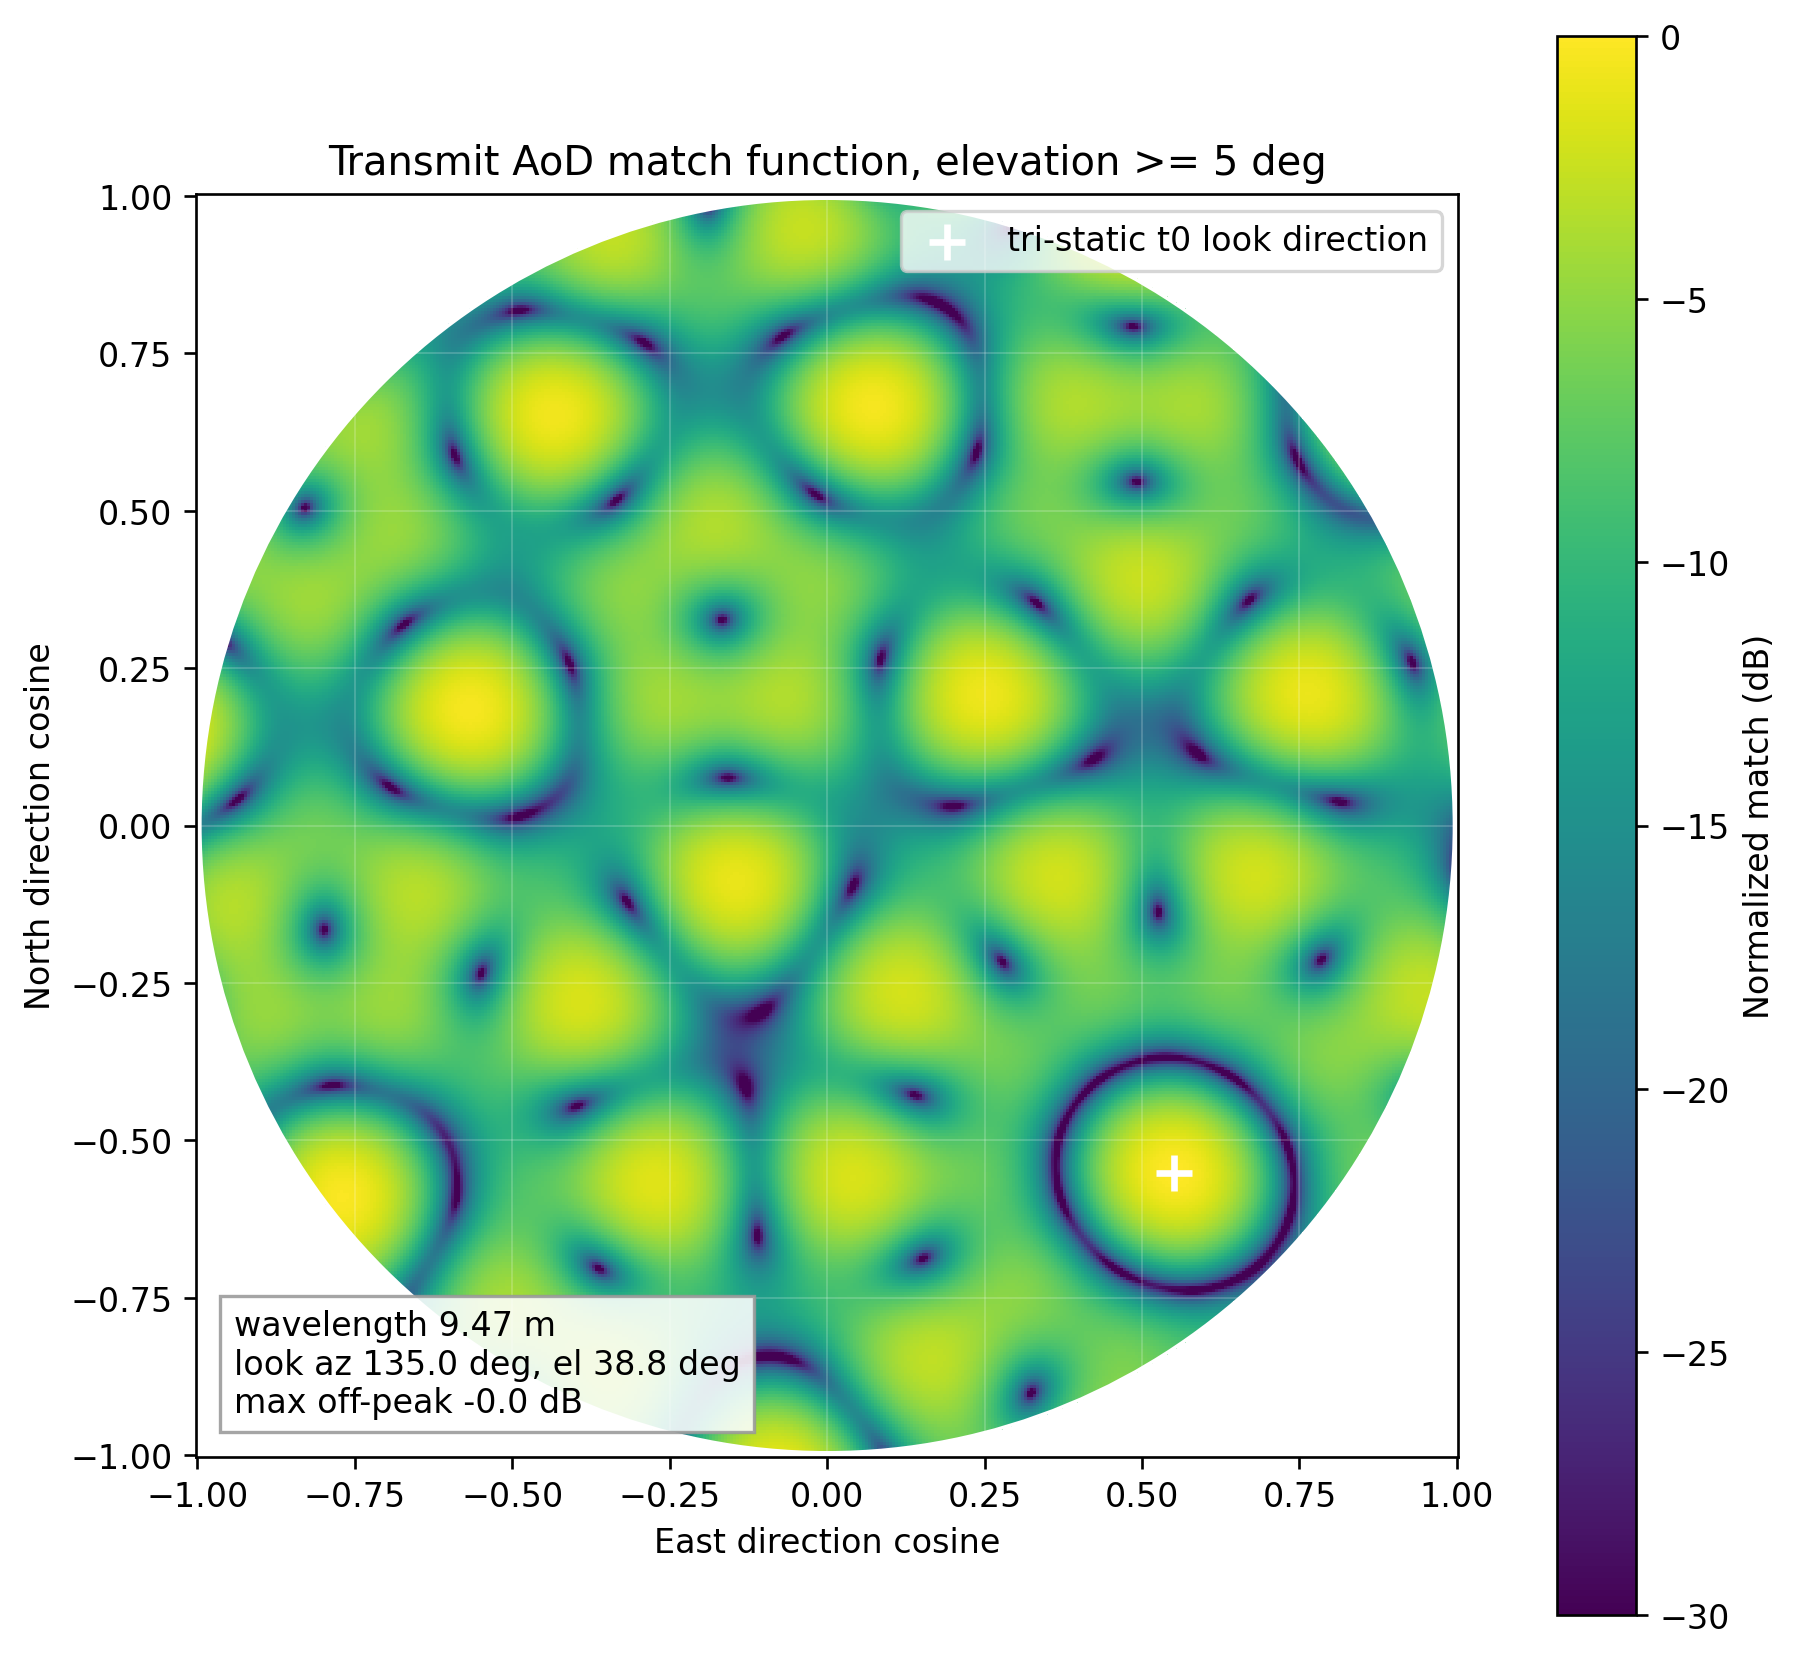
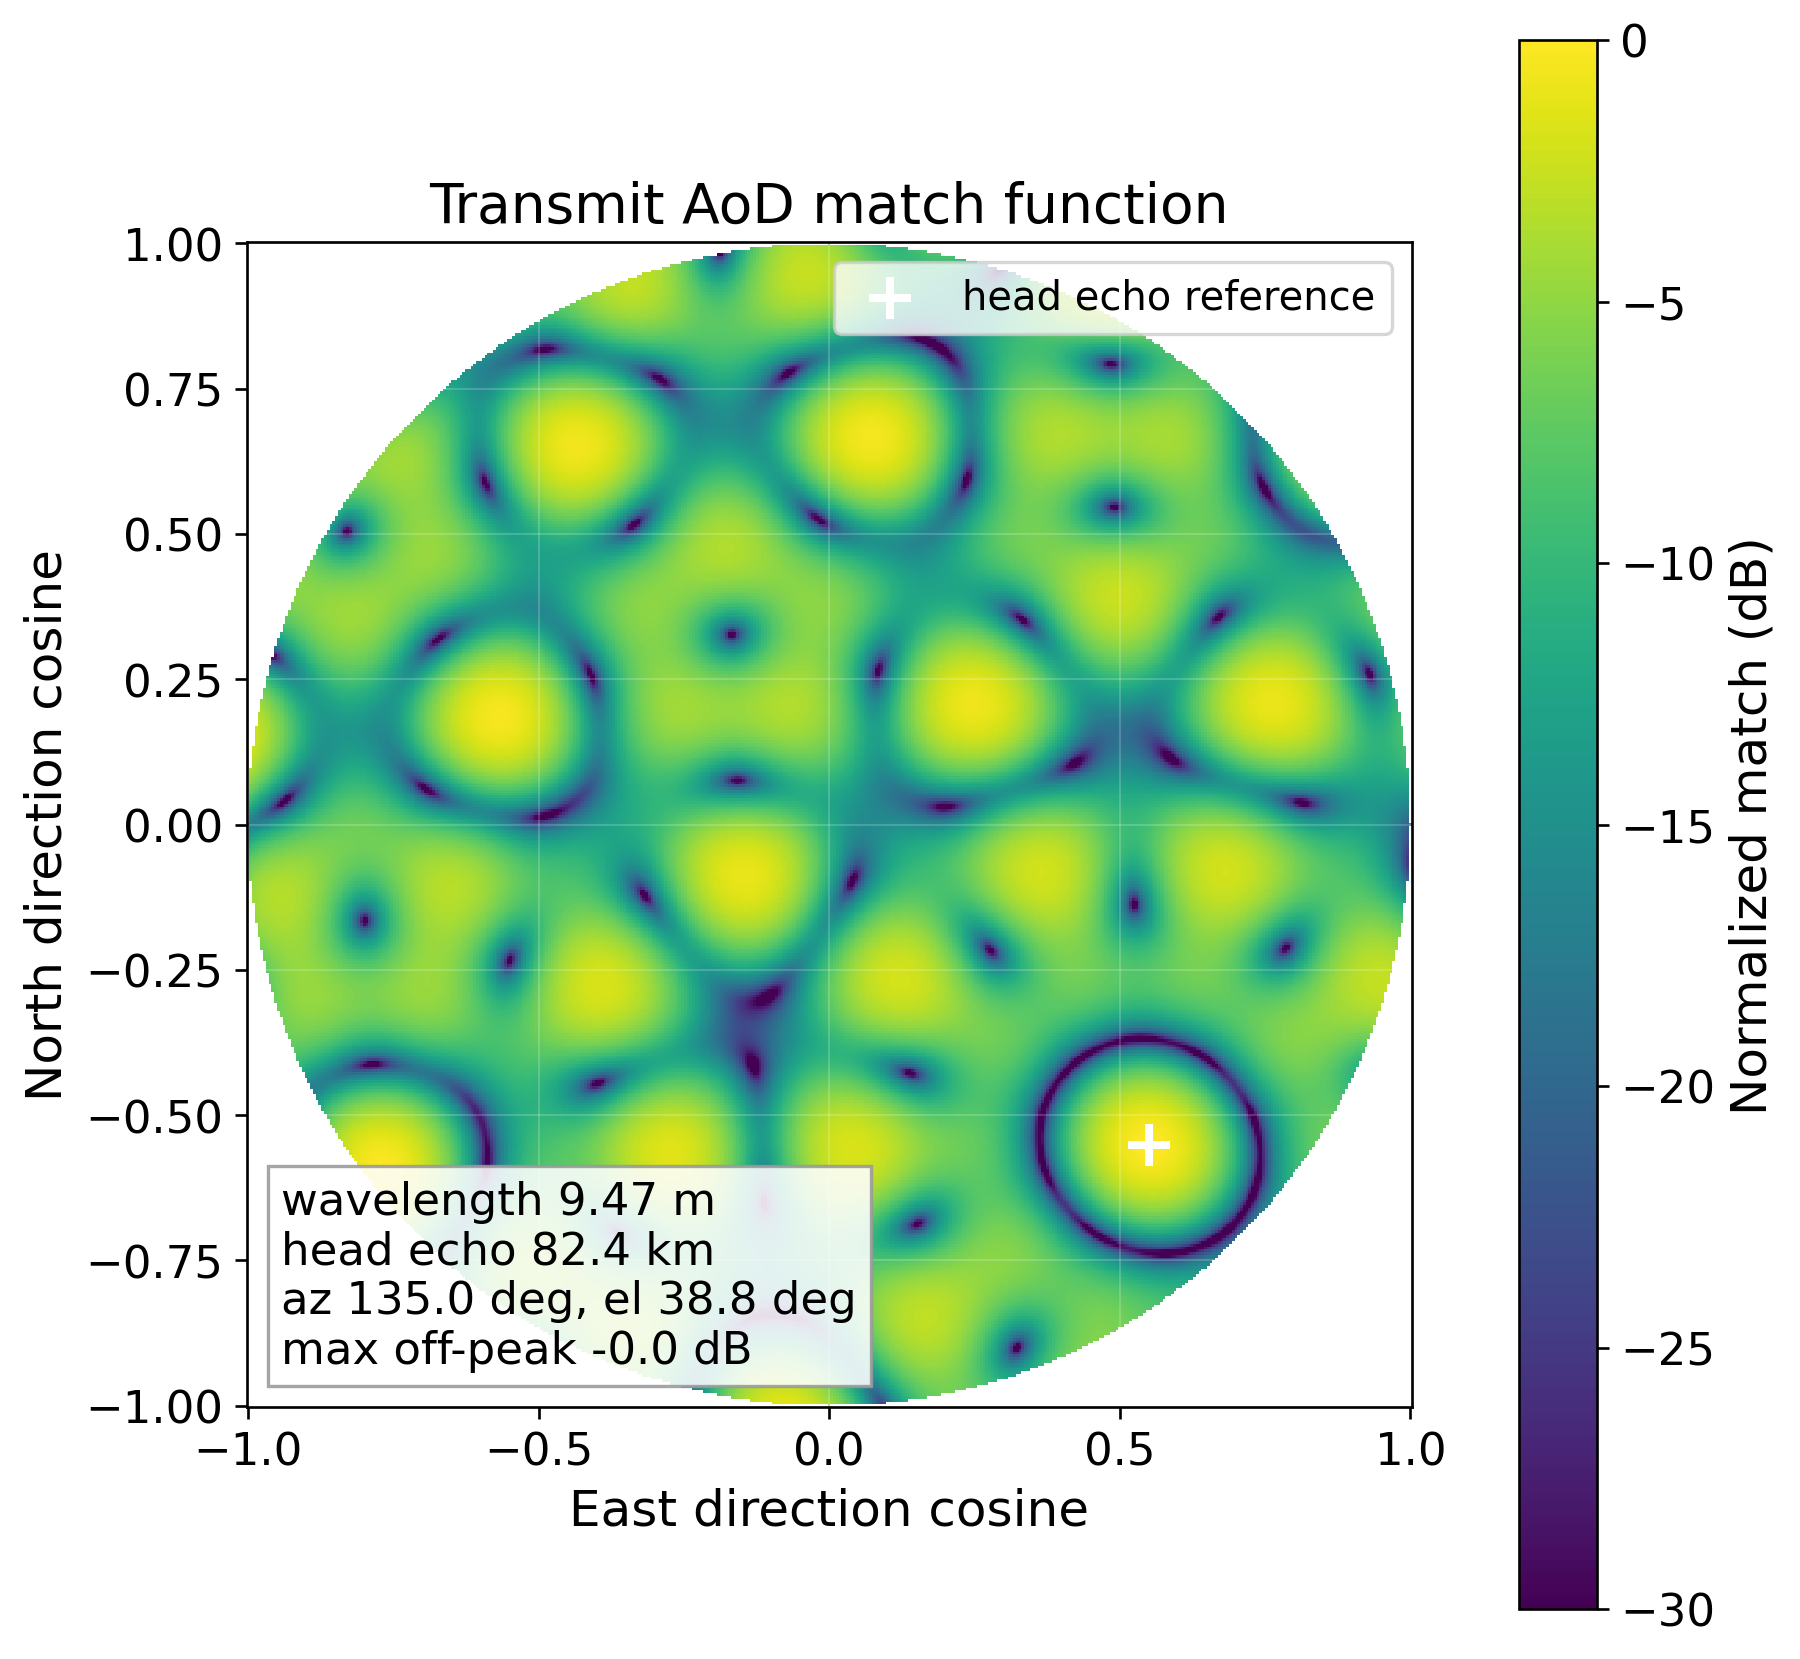
Increase AoD ambiguity figure font

diff --git a/reports/generate_station_config_assets.py b/reports/generate_station_config_assets.py
@@ -75,7 +75,7 @@ def write_tx_antenna_table(tx) -> Path:
     return out
 
 
-def aod_match_grid(tx, elevation_floor_deg: float = 5.0, grid_size: int = 421):
+def aod_match_grid(tx, grid_size: int = 421):
     ant = tx.antenna_pos_tx
     wavelength = C / tx.frequency_hz
     k = 2.0 * np.pi / wavelength
@@ -84,8 +84,7 @@ def aod_match_grid(tx, elevation_floor_deg: float = 5.0, grid_size: int = 421):
     u = np.linspace(-1.0, 1.0, grid_size)
     east, north = np.meshgrid(u, u)
     h2 = east * east + north * north
-    min_up = np.sin(np.deg2rad(elevation_floor_deg))
-    keep = h2 <= 1.0 - min_up * min_up
+    keep = h2 <= 1.0
     up = np.sqrt(np.maximum(0.0, 1.0 - h2))
 
     dirs = np.column_stack((east[keep], north[keep], up[keep]))
@@ -102,62 +101,70 @@ def aod_match_grid(tx, elevation_floor_deg: float = 5.0, grid_size: int = 421):
 
 def plot_tx_antennas(tx) -> Path:
     ant = tx.antenna_pos_tx
-    fig, axes = plt.subplots(1, 2, figsize=(13.2, 6.0), constrained_layout=True)
-    ax = axes[0]
-    ax.scatter(ant[:, 0], ant[:, 1], s=95, color="#1f77b4", edgecolor="white", linewidth=0.8, zorder=3)
-    for idx, (enu, seed) in enumerate(zip(ant, tx.seeds)):
-        ax.annotate(
-            f"TX{idx}\nseed {seed}",
-            (enu[0], enu[1]),
-            xytext=(7, 7),
-            textcoords="offset points",
-            fontsize=9,
+    font_scale = 1.5
+    font = {
+        "axes.titlesize": 11 * font_scale,
+        "axes.labelsize": 10 * font_scale,
+        "xtick.labelsize": 9 * font_scale,
+        "ytick.labelsize": 9 * font_scale,
+        "legend.fontsize": 8 * font_scale,
+    }
+    with plt.rc_context(font):
+        fig, axes = plt.subplots(1, 2, figsize=(13.2, 6.0), constrained_layout=True)
+        ax = axes[0]
+        ax.scatter(ant[:, 0], ant[:, 1], s=120, color="#1f77b4", edgecolor="white", linewidth=0.8, zorder=3)
+        for idx, (enu, seed) in enumerate(zip(ant, tx.seeds)):
+            ax.annotate(
+                f"TX{idx}\nseed {seed}",
+                (enu[0], enu[1]),
+                xytext=(7, 7),
+                textcoords="offset points",
+                fontsize=9 * font_scale,
+            )
+        ax.axhline(0, color="0.78", lw=0.8)
+        ax.axvline(0, color="0.78", lw=0.8)
+        ax.set_aspect("equal", adjustable="box")
+        pad = 8.0
+        ax.set_xlim(float(np.min(ant[:, 0]) - pad), float(np.max(ant[:, 0]) + pad))
+        ax.set_ylim(float(np.min(ant[:, 1]) - pad), float(np.max(ant[:, 1]) + pad))
+        ax.set_xlabel("East offset from TX reference (m)")
+        ax.set_ylabel("North offset from TX reference (m)")
+        ax.set_title("(a) Pentagon transmit aperture")
+        ax.grid(True, color="0.9", linewidth=0.5)
+
+        ax = axes[1]
+        east, north, z, ref, ref_meta, wavelength, sidelobe = aod_match_grid(tx)
+        mesh = ax.pcolormesh(east, north, z, shading="auto", cmap="viridis", vmin=-30.0, vmax=0.0)
+        ax.scatter([ref[0]], [ref[1]], marker="+", s=160, color="white", linewidth=2.4, label="head echo reference")
+        ax.set_aspect("equal", adjustable="box")
+        ax.set_xlabel("East direction cosine")
+        ax.set_ylabel("North direction cosine")
+        ax.set_title("(b) Transmit AoD ambiguity function")
+        ax.grid(True, color="white", alpha=0.22, linewidth=0.5)
+        cb = fig.colorbar(mesh, ax=ax)
+        cb.set_label("Normalized match (dB)", fontsize=10 * font_scale)
+        cb.ax.tick_params(labelsize=9 * font_scale)
+        txt = (
+            f"wavelength {wavelength:.2f} m\n"
+            f"head echo {ref_meta['height_km']:.1f} km\n"
+            f"az {ref_meta['az_deg']:.1f} deg, el {ref_meta['el_deg']:.1f} deg\n"
+            f"max off-peak {10*np.log10(max(sidelobe, 1e-12)):.1f} dB"
         )
-    ax.axhline(0, color="0.78", lw=0.8)
-    ax.axvline(0, color="0.78", lw=0.8)
-    ax.set_aspect("equal", adjustable="box")
-    pad = 8.0
-    ax.set_xlim(float(np.min(ant[:, 0]) - pad), float(np.max(ant[:, 0]) + pad))
-    ax.set_ylim(float(np.min(ant[:, 1]) - pad), float(np.max(ant[:, 1]) + pad))
-    ax.set_xlabel("East offset from TX reference (m)")
-    ax.set_ylabel("North offset from TX reference (m)")
-    ax.set_title("(a) Pentagon transmit aperture")
-    ax.grid(True, color="0.9", linewidth=0.5)
+        ax.text(
+            0.03,
+            0.03,
+            txt,
+            transform=ax.transAxes,
+            va="bottom",
+            ha="left",
+            fontsize=9 * font_scale,
+            bbox=dict(fc="white", ec="0.6", alpha=0.88),
+        )
+        ax.legend(loc="upper right")
 
-    ax = axes[1]
-    elevation_floor_deg = 5.0
-    east, north, z, ref, ref_meta, wavelength, sidelobe = aod_match_grid(tx, elevation_floor_deg=elevation_floor_deg)
-    mesh = ax.pcolormesh(east, north, z, shading="auto", cmap="viridis", vmin=-30.0, vmax=0.0)
-    circle = plt.Circle((0, 0), np.cos(np.deg2rad(elevation_floor_deg)), color="white", fill=False, lw=1.1)
-    ax.add_patch(circle)
-    ax.scatter([ref[0]], [ref[1]], marker="+", s=120, color="white", linewidth=2.0, label="tri-static t0 look direction")
-    ax.set_aspect("equal", adjustable="box")
-    ax.set_xlabel("East direction cosine")
-    ax.set_ylabel("North direction cosine")
-    ax.set_title("(b) Transmit AoD ambiguity function")
-    ax.grid(True, color="white", alpha=0.22, linewidth=0.5)
-    cb = fig.colorbar(mesh, ax=ax)
-    cb.set_label("Normalized match (dB)")
-    txt = (
-        f"wavelength {wavelength:.2f} m\n"
-        f"look az {ref_meta['az_deg']:.1f} deg, el {ref_meta['el_deg']:.1f} deg\n"
-        f"max off-peak {10*np.log10(max(sidelobe, 1e-12)):.1f} dB"
-    )
-    ax.text(
-        0.03,
-        0.03,
-        txt,
-        transform=ax.transAxes,
-        va="bottom",
-        ha="left",
-        fontsize=10,
-        bbox=dict(fc="white", ec="0.6", alpha=0.88),
-    )
-    ax.legend(loc="upper right")
-
-    out = FIG_DIR / "tx_antenna_coordinates.png"
-    fig.savefig(out, dpi=220, bbox_inches="tight")
-    plt.close(fig)
+        out = FIG_DIR / "tx_antenna_coordinates.png"
+        fig.savefig(out, dpi=220, bbox_inches="tight")
+        plt.close(fig)
     return out
 
 
@@ -171,48 +178,61 @@ def trajectory_reference_direction_enu(tx) -> tuple[np.ndarray, dict]:
     rot = enu_to_ecef_matrix(tx.gps_tx[0], tx.gps_tx[1])
     model = model_state_series(params, [fit["t_ref_unix"]], fit["t_ref_unix"], tx_ecef, rot)
     pos_enu = model["position_enu_m"][0]
+    height_km = float(model["lat_lon_alt"][0, 2] / 1000.0)
     direction = pos_enu / np.linalg.norm(pos_enu)
     az_deg = (np.rad2deg(np.arctan2(direction[0], direction[1])) + 360.0) % 360.0
     el_deg = np.rad2deg(np.arcsin(np.clip(direction[2], -1.0, 1.0)))
-    return direction, {"az_deg": float(az_deg), "el_deg": float(el_deg), "t_ref_utc": fit["t_ref_utc"]}
+    return direction, {
+        "az_deg": float(az_deg),
+        "el_deg": float(el_deg),
+        "height_km": height_km,
+        "t_ref_utc": fit["t_ref_utc"],
+    }
 
 
-def plot_aod_match_function(tx, elevation_floor_deg: float = 5.0, grid_size: int = 421) -> Path:
-    east, north, z, ref, ref_meta, wavelength, sidelobe = aod_match_grid(
-        tx, elevation_floor_deg=elevation_floor_deg, grid_size=grid_size
-    )
+def plot_aod_match_function(tx, grid_size: int = 421) -> Path:
+    east, north, z, ref, ref_meta, wavelength, sidelobe = aod_match_grid(tx, grid_size=grid_size)
 
-    fig, ax = plt.subplots(figsize=(7.4, 6.8), constrained_layout=True)
-    mesh = ax.pcolormesh(east, north, z, shading="auto", cmap="viridis", vmin=-30.0, vmax=0.0)
-    circle = plt.Circle((0, 0), np.cos(np.deg2rad(elevation_floor_deg)), color="white", fill=False, lw=1.1)
-    ax.add_patch(circle)
-    ax.scatter([ref[0]], [ref[1]], marker="+", s=120, color="white", linewidth=2.0, label="tri-static t0 look direction")
-    ax.set_aspect("equal", adjustable="box")
-    ax.set_xlabel("East direction cosine")
-    ax.set_ylabel("North direction cosine")
-    ax.set_title(f"Transmit AoD match function, elevation >= {elevation_floor_deg:g} deg")
-    ax.grid(True, color="white", alpha=0.22, linewidth=0.5)
-    cb = fig.colorbar(mesh, ax=ax)
-    cb.set_label("Normalized match (dB)")
-    txt = (
-        f"wavelength {wavelength:.2f} m\n"
-        f"look az {ref_meta['az_deg']:.1f} deg, el {ref_meta['el_deg']:.1f} deg\n"
-        f"max off-peak {10*np.log10(max(sidelobe, 1e-12)):.1f} dB"
-    )
-    ax.text(
-        0.03,
-        0.03,
-        txt,
-        transform=ax.transAxes,
-        va="bottom",
-        ha="left",
-        fontsize=10,
-        bbox=dict(fc="white", ec="0.6", alpha=0.88),
-    )
-    ax.legend(loc="upper right")
-    out = FIG_DIR / "tx_aod_match_function.png"
-    fig.savefig(out, dpi=240, bbox_inches="tight")
-    plt.close(fig)
+    font_scale = 1.5
+    font = {
+        "axes.titlesize": 11 * font_scale,
+        "axes.labelsize": 10 * font_scale,
+        "xtick.labelsize": 9 * font_scale,
+        "ytick.labelsize": 9 * font_scale,
+        "legend.fontsize": 8 * font_scale,
+    }
+    with plt.rc_context(font):
+        fig, ax = plt.subplots(figsize=(7.4, 6.8), constrained_layout=True)
+        mesh = ax.pcolormesh(east, north, z, shading="auto", cmap="viridis", vmin=-30.0, vmax=0.0)
+        ax.scatter([ref[0]], [ref[1]], marker="+", s=160, color="white", linewidth=2.4, label="head echo reference")
+        ax.set_aspect("equal", adjustable="box")
+        ax.set_xlabel("East direction cosine")
+        ax.set_ylabel("North direction cosine")
+        ax.set_title("Transmit AoD match function")
+        ax.grid(True, color="white", alpha=0.22, linewidth=0.5)
+        cb = fig.colorbar(mesh, ax=ax)
+        cb.set_label("Normalized match (dB)", fontsize=10 * font_scale)
+        cb.ax.tick_params(labelsize=9 * font_scale)
+        txt = (
+            f"wavelength {wavelength:.2f} m\n"
+            f"head echo {ref_meta['height_km']:.1f} km\n"
+            f"az {ref_meta['az_deg']:.1f} deg, el {ref_meta['el_deg']:.1f} deg\n"
+            f"max off-peak {10*np.log10(max(sidelobe, 1e-12)):.1f} dB"
+        )
+        ax.text(
+            0.03,
+            0.03,
+            txt,
+            transform=ax.transAxes,
+            va="bottom",
+            ha="left",
+            fontsize=9 * font_scale,
+            bbox=dict(fc="white", ec="0.6", alpha=0.88),
+        )
+        ax.legend(loc="upper right")
+        out = FIG_DIR / "tx_aod_match_function.png"
+        fig.savefig(out, dpi=240, bbox_inches="tight")
+        plt.close(fig)
     return out
 
 

diff --git a/reports/processing_report_body.tex b/reports/processing_report_body.tex
@@ -204,11 +204,11 @@ geometry, and calibration errors.
   \includegraphics[width=0.78\linewidth]{figures/tx_aod_match_function.png}
   \caption{Transmit-interferometer angle-of-departure point-spread function.
   The plotted quantity is the normalized five-antenna array match function in
-  east/north direction cosines for the a priori look direction implied by the
-  tri-static head-echo fit at the reference time.  The sky is masked below
-  5 deg elevation.  This figure shows the angular response and
-  sidelobe/ambiguity structure expected before measurement noise and echo SNR
-  are considered.}
+  east/north direction cosines over the visible hemisphere.  The reference
+  direction is the nominal azimuth and elevation of the tri-static head-echo
+  fit at the trajectory reference time, corresponding to an echo altitude of
+  82.4 km.  This figure shows the angular response and sidelobe/ambiguity
+  structure expected before measurement noise and echo SNR are considered.}
   \figsource{reports/generate_station_config_assets.py}
   \label{fig:tx-aod-match}
 \end{figure}
